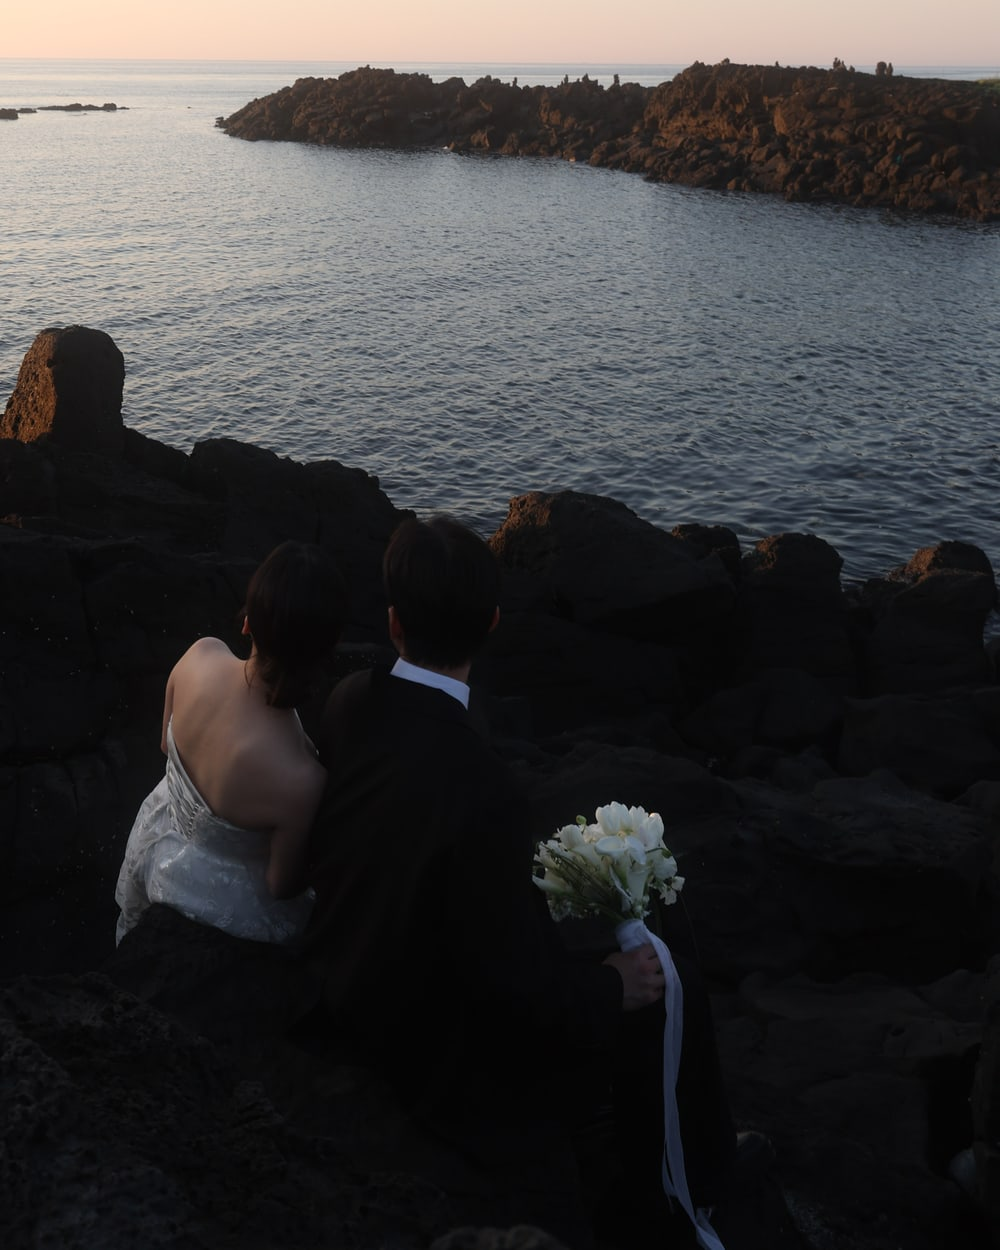
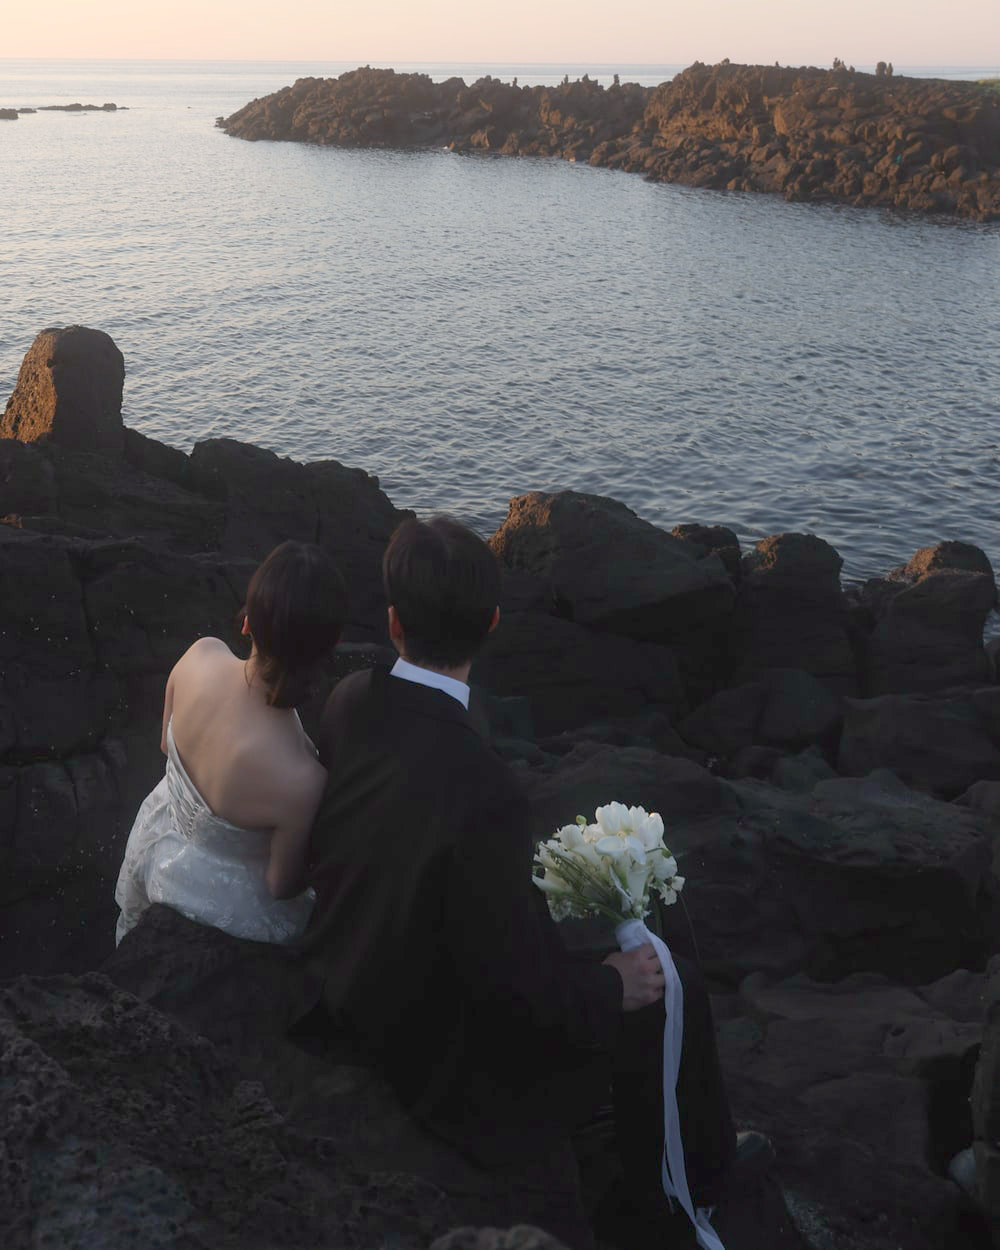
안내사항 마지막(화환) 사진 밝게 보정
바다만 보이고 사람이 어둡게 묻혀서:
- venue-5.jpg 어두운 영역(암부) 끌어올리고 채도 약간 올림 (원본은 backup/venue-5_orig.jpg)
- 이 카드만 하단 어두운 그라데이션을 약하게(.vphoto.light) — 사람이 사진 아래쪽에 있어서

diff --git a/index.html b/index.html
@@ -208,6 +208,7 @@
   .vphoto{position:relative;display:block;border-radius:13px;overflow:hidden}
   .vphoto img{width:100%;aspect-ratio:4/5;object-fit:cover;display:block}
   .vphoto::after{content:"";position:absolute;inset:0;background:linear-gradient(180deg,transparent 52%,rgba(7,15,29,.78))}
+  .vphoto.light::after{background:linear-gradient(180deg,transparent 72%,rgba(7,15,29,.62))}
   .vphoto .vlabel{position:absolute;left:0;right:0;bottom:13px;z-index:2;text-align:center;font-family:var(--disp);font-size:13px;letter-spacing:.32em;color:#fff;text-transform:uppercase}
   .vdesc{margin-top:15px;padding:0 4px}
   .vdesc .vh{font-family:var(--serif);font-size:16px;color:var(--warm);margin-bottom:7px}
@@ -684,7 +685,7 @@
         <div class="vdesc"><div class="vh">주차 안내</div><div class="vt">전쟁기념관 내 주차장을 2시간 무료로 이용하실 수 있습니다.<br/>(약 1,000대 주차 가능)</div></div>
       </div>
       <div class="vcard">
-        <div class="vphoto"><img loading="lazy" src="images/venue-5.jpg" alt="화환 안내" /><span class="vlabel">Flowers</span></div>
+        <div class="vphoto light"><img loading="lazy" src="images/venue-5.jpg" alt="화환 안내" /><span class="vlabel">Flowers</span></div>
         <div class="vdesc"><div class="vh">화환 안내</div><div class="vt">축하 화환은 정중히 사양합니다.<br/>마음만으로도 충분히 감사합니다.</div></div>
       </div>
     </div>
